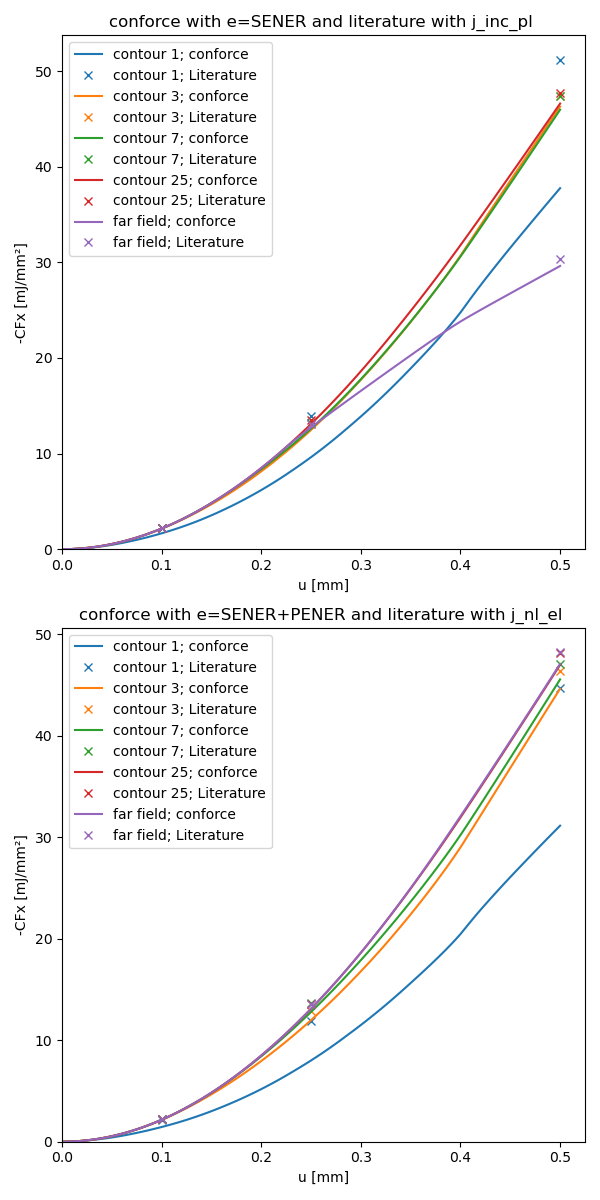
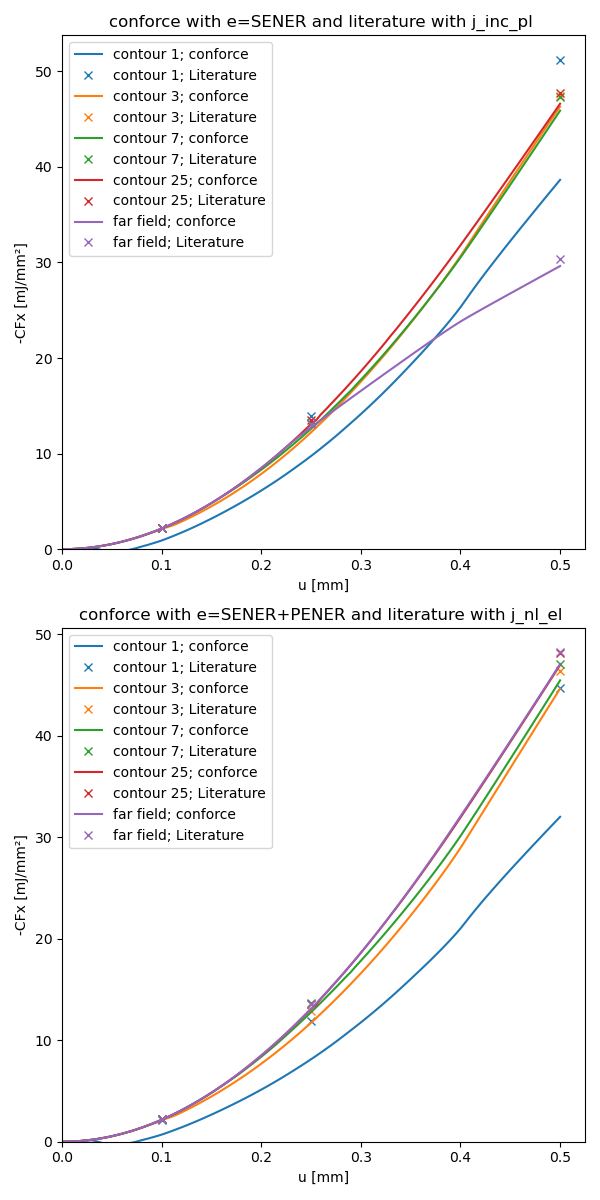
:art: Use motion base formulation in Example 2 and 3 as described in literature

diff --git a/examples/Example_2_CT_specimen_linear_elastic/example_2_CT_specimen_linear_elastic.py b/examples/Example_2_CT_specimen_linear_elastic/example_2_CT_specimen_linear_elastic.py
@@ -139,7 +139,7 @@ The configurational forces for the regions `A`, `B`, and `FAR_FIELD` show a good
 
 >>> (cfx_in_a, _) = results["CF"]["A"]
 >>> np.around(cfx_in_a, 3)  # mJ/mm**2
--54.484
+-54.485
 
 >>> (cfx_in_b, _) = results["CF"]["B"]
 >>> np.around(cfx_in_b, 3)  # mJ/mm**2
@@ -147,14 +147,14 @@ The configurational forces for the regions `A`, `B`, and `FAR_FIELD` show a good
 
 >>> (cfx_in_far, _) = results["CF"]["FAR_FIELD"]
 >>> np.around(cfx_in_far, 3)  # mJ/mm**2
--54.794
+-54.808
 
 Like conventional forces, the configurational forces fullfill the equilibrium of forces.
 The configuraional forces summed up for the whole model are zero.
 
 >>> (cfx_whole_model, _) = results["CF"]["ALL_NODES"]
 >>> np.around(cfx_whole_model, 3)
--0.0
+0.0
 
 Comparison
 ----------

diff --git a/examples/Example_3_CT_specimen_elastic_plastic/example_3_abaqus_script.py b/examples/Example_3_CT_specimen_elastic_plastic/example_3_abaqus_script.py
@@ -51,14 +51,14 @@ def simulate_and_save_results(inp_file_path="CT_specimen_CPE4.inp"):
         odb,
         request_CF=True,
         CF_name="CONF_FORCE_EL",
-        method="dbf",
+        method="mbf",
         e_expression="SENER"
     )
     odb = apply(
         odb,
         request_CF=True,
         CF_name="CONF_FORCE_EL_PL",
-        method="dbf",
+        method="mbf",
         e_expression="SENER+PENER"
     )
 

diff --git a/examples/Example_2_CT_specimen_linear_elastic/example_2_abaqus_script.py b/examples/Example_2_CT_specimen_linear_elastic/example_2_abaqus_script.py
@@ -51,7 +51,7 @@ def simulate_and_save_results(inp_file_path="CT_specimen_CPE4.inp"):
         odb,
         request_CF=True,
         CF_name="CONF_FORCE_LIN_EL",
-        method="dbf",
+        method="mbf",
         e_expression="SENER"
     )
 
